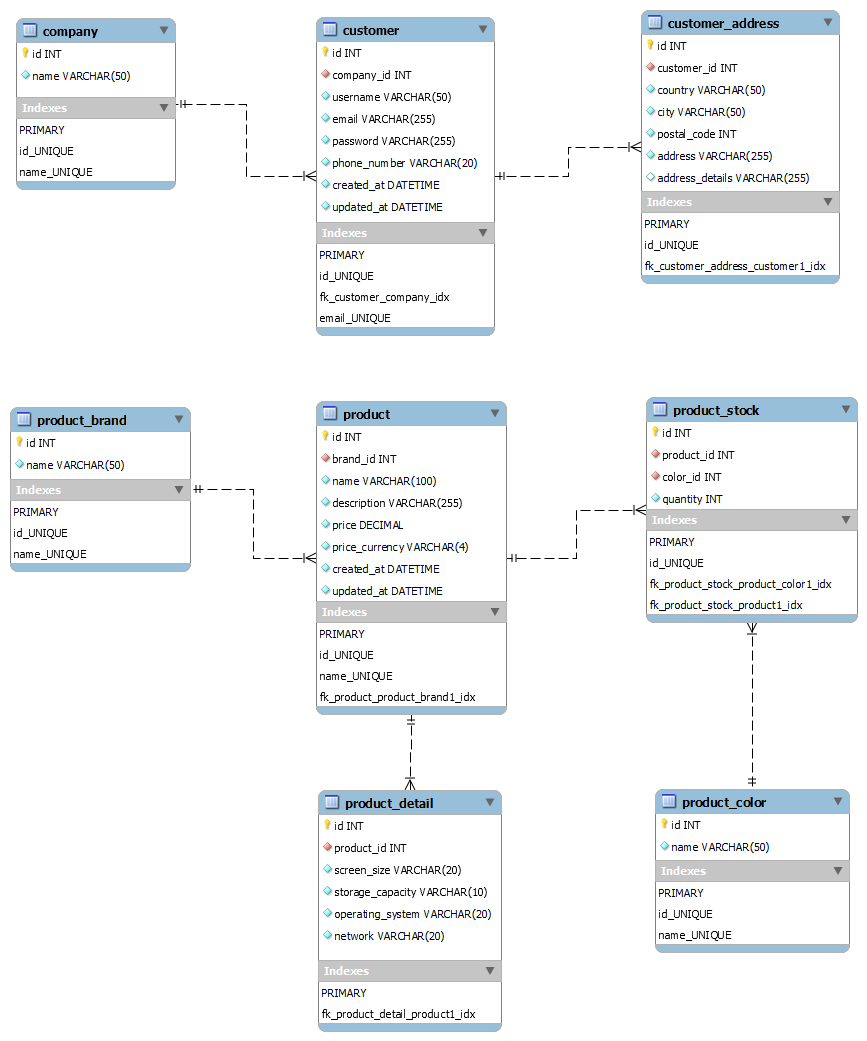
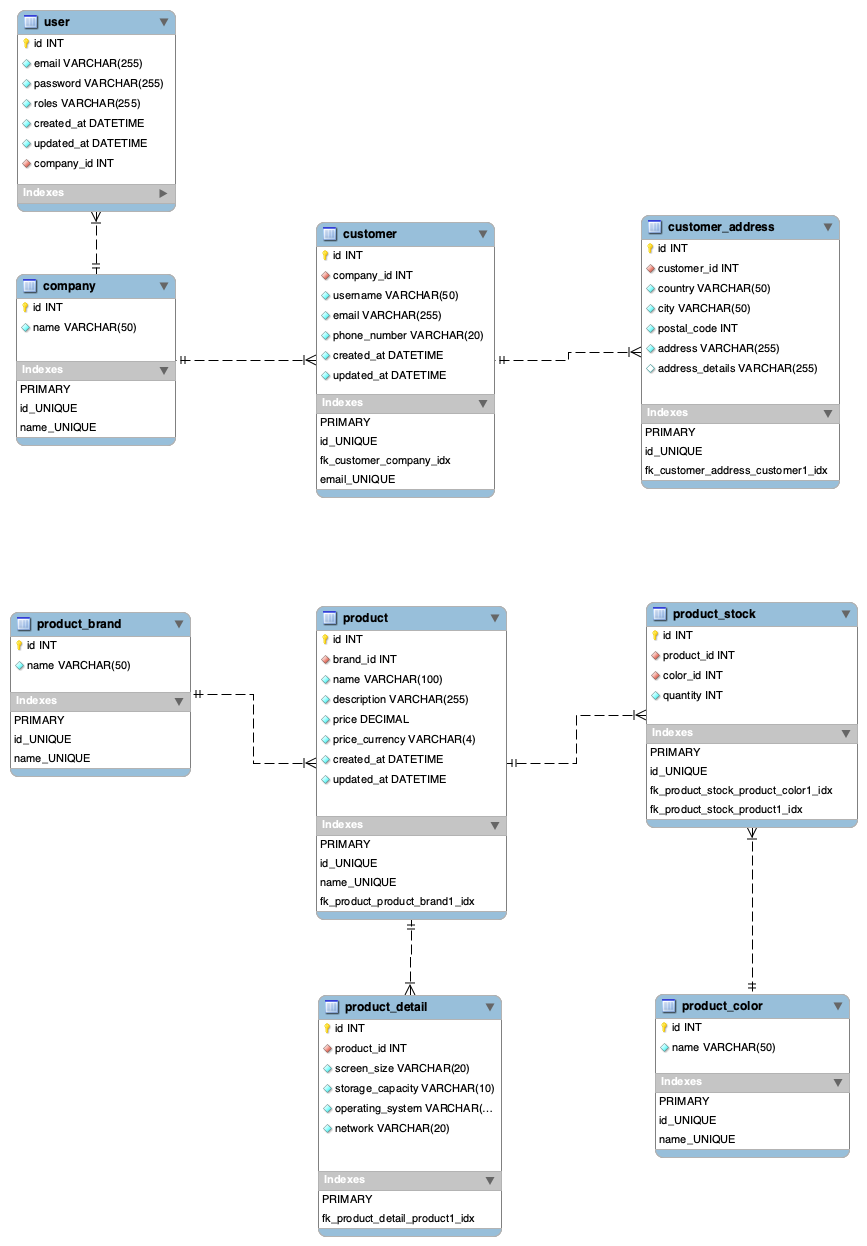
fix:(Deiverables): Update deliverables (diagrams) to authentication

diff --git a/src/Entity/User.php b/src/Entity/User.php
@@ -20,7 +20,7 @@ class User implements UserInterface, PasswordAuthenticatedUserInterface
     #[ORM\Column]
     private ?int $id = null;
 
-    #[ORM\Column(length: 180, unique: true)]
+    #[ORM\Column(length: 255, unique: true)]
     private ?string $email = null;
 
     #[ORM\Column]
@@ -29,7 +29,7 @@ class User implements UserInterface, PasswordAuthenticatedUserInterface
     /**
      * @var string The hashed password
      */
-    #[ORM\Column]
+    #[ORM\Column(length: 255)]
     private ?string $password = null;
 
     #[ORM\ManyToOne(inversedBy: 'users')]
